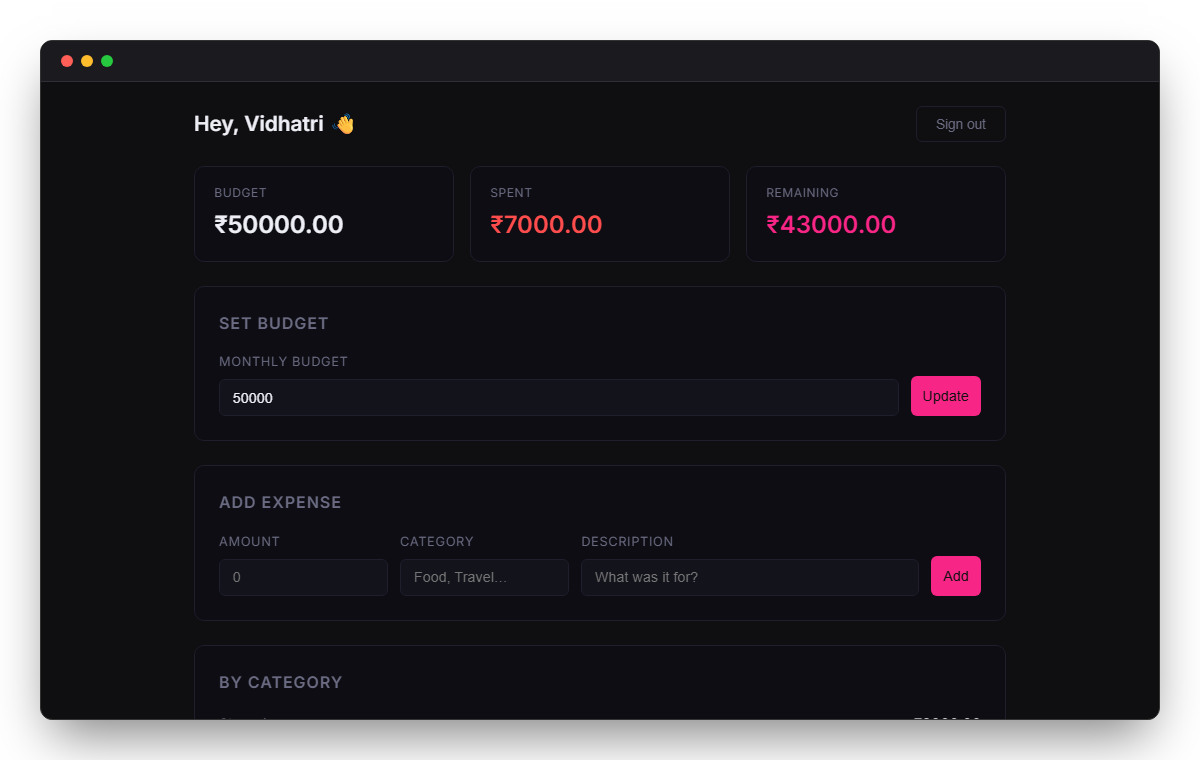
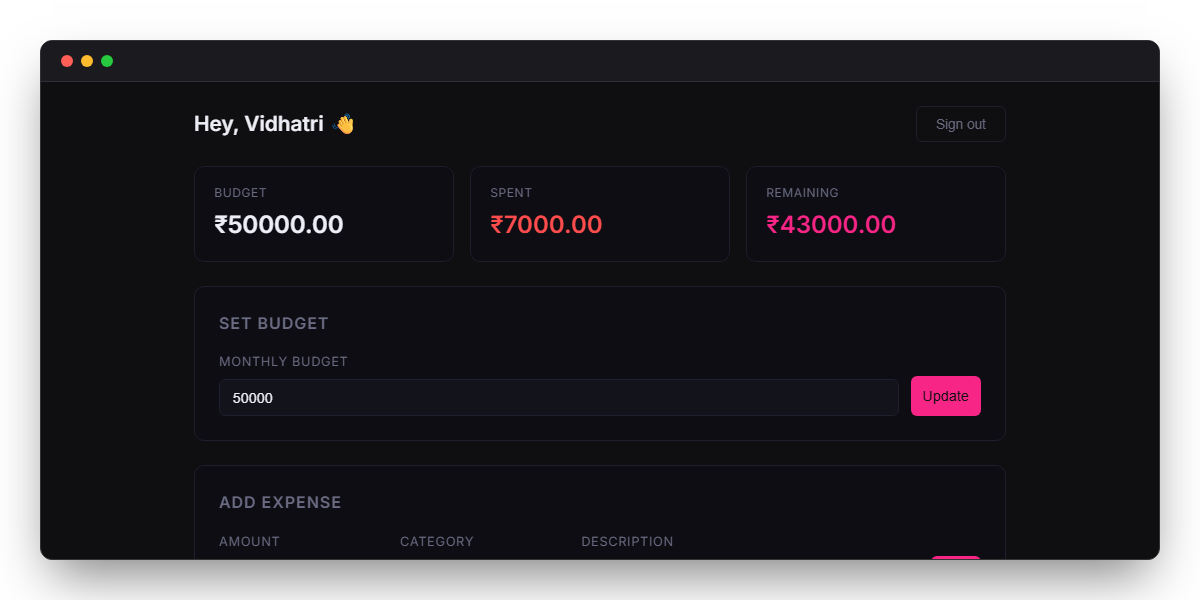
Fix screenshot dimensions

diff --git a/capture_screenshots.py b/capture_screenshots.py
@@ -10,7 +10,7 @@ inject_mac_ui = """() => {
     captureArea.style.padding = '40px';
     captureArea.style.background = 'transparent';
     captureArea.style.width = '1000px';
-    captureArea.style.minHeight = '760px';
+    captureArea.style.minHeight = '600px';
     captureArea.style.height = 'max-content';
     captureArea.style.boxSizing = 'border-box';
     captureArea.style.display = 'flex';
@@ -78,7 +78,7 @@ def main():
 
     with sync_playwright() as p:
         browser = p.chromium.launch(headless=True)
-        context = browser.new_context(viewport={'width': 1080, 'height': 800})
+        context = browser.new_context(viewport={'width': 1080, 'height': 600})
         page = context.new_page()
 
         print("Navigating to login page...")
@@ -114,6 +114,7 @@ def main():
             const el = document.getElementById('mac-capture-area');
             el.style.width = '1200px';
             el.style.height = '600px';
+            el.style.minHeight = 'unset';
         }''')
         page.wait_for_timeout(500)
         wrapper.screenshot(path=os.path.join(assets_dir, 'github-social-preview.png'), omit_background=True)
